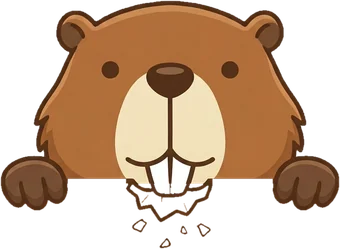
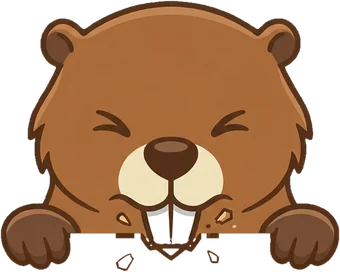
One bite, once, from a better-drawn beaver
The token chart beaver is redrawn after the greeting beaver: short
muzzle and front teeth on the upper lip. It pops up with its mouth
open, dips its head and bites the chart's edge once, and the effect
plays only the first time the chart comes into view. The walking and
floating beavers no longer move.

diff --git a/web/styles.css b/web/styles.css
@@ -221,15 +221,13 @@ code { font: 0.92em var(--mono); color: var(--ink-2); }
 .art-hello { position: absolute; top: -48px; right: -40px; width: 360px; opacity: 0.15; pointer-events: none; -webkit-mask-image: linear-gradient(#000 50%, transparent 82%); mask-image: linear-gradient(#000 50%, transparent 82%); }
 .h2-row { display: flex; align-items: flex-end; justify-content: space-between; gap: 16px; }
 .h2-row h2 { margin-bottom: 16px; }
-.art-walk { width: 130px; margin: -36px 4px -4px 0; transform-origin: 50% 100%; animation: waddle 1.4s ease-in-out infinite; }
-@keyframes waddle { 25% { transform: rotate(-3deg) translateY(-2px); } 75% { transform: rotate(3deg) translateY(-2px); } }
-@media (prefers-reduced-motion: reduce) { .art-walk { animation: none; } }
+.art-walk { width: 130px; margin: -36px 4px -4px 0; }
 /* the beaver bites the top edge of the token chart; about.js plays it when the chart scrolls in.
-   Two frames with the same framing (mouth open, biting); the board edge sits 52.7% down them. */
+   Two frames with the same framing (mouth open, then head dipped and biting); the board edge sits 68.7% down them. */
 .tokens { --cw: 170px; }
 .tokens .stat { padding-right: calc(var(--cw) + 24px); }
 .chart { position: relative; }
-.chomp { position: absolute; z-index: 3; right: 18px; top: calc(var(--cw) * -0.527 - 1px); width: var(--cw); pointer-events: none; }
+.chomp { position: absolute; z-index: 3; right: 18px; top: calc(var(--cw) * -0.687 - 1px); width: var(--cw); pointer-events: none; }
 .chomp img { display: block; width: 100%; height: auto; }
 .chomp .chomp-bite { position: absolute; inset: 0; }
 .crumbs { position: absolute; z-index: 2; top: 2px; right: calc(18px + var(--cw) * 0.5); width: 0; height: 0; }
@@ -239,20 +237,15 @@ code { font: 0.92em var(--mono); color: var(--ink-2); }
 .chart.armed .chomp-bite { opacity: 0; }
 .chart.armed .is-ours .bar { width: 100%; }
 .chart.chomped .chomp { opacity: 1; transform: none; transition: opacity 0.2s, transform 0.35s cubic-bezier(0.3, 1.5, 0.5, 1); }
-/* three bites: open, bite, open, bite, open, bite, and it keeps the last bite */
-.chart.chomped .chomp-bite { animation: bite-frame 0.34s 0.45s 3 step-end forwards; }
-.chart.chomped .chomp img:first-child { animation: bite-bob 0.34s 0.45s 3; }
+/* one bite: it pops up with its mouth open, then dips and bites, and keeps biting */
+.chart.chomped .chomp-bite { opacity: 1; transition: opacity 0.04s 0.6s; }
 .chart.chomped { animation: shake 0.3s 0.62s; }
 .chart.chomped .crumbs i { animation: crumb 1s 0.62s cubic-bezier(0.2, 0.6, 0.4, 1) forwards; }
-.chart.chomped .is-ours .bar { width: var(--w); transition-delay: 0.7s; }
-@keyframes bite-frame { 0% { opacity: 0; } 50% { opacity: 1; } 100% { opacity: 1; } }
-@keyframes bite-bob { 50% { transform: translateY(3px); } }
+.chart.chomped .is-ours .bar { width: var(--w); transition-delay: 0.68s; }
 @keyframes shake { 25% { transform: translate(-2px, 1px); } 50% { transform: translate(2px, -1px); } 75% { transform: translate(-1px, 0); } }
 @keyframes crumb { 0% { opacity: 1; transform: translate(0, 0) rotate(0) scale(var(--s)); } 100% { opacity: 0; transform: translate(var(--dx), var(--dy)) rotate(var(--r)) scale(var(--s)); } }
 /* drifting in the dam: the water is the page navy, faded out at the edges */
-.art-float { width: min(100%, 500px); margin: 8px auto 0; -webkit-mask-image: radial-gradient(ellipse 50% 50% at 50% 50%, #000 66%, transparent 100%); mask-image: radial-gradient(ellipse 50% 50% at 50% 50%, #000 66%, transparent 100%); animation: drift 7s ease-in-out infinite; }
-@keyframes drift { 50% { transform: translate(10px, -5px) rotate(-1.5deg); } }
-@media (prefers-reduced-motion: reduce) { .art-float { animation: none; } }
+.art-float { width: min(100%, 500px); margin: 8px auto 0; -webkit-mask-image: radial-gradient(ellipse 50% 50% at 50% 50%, #000 66%, transparent 100%); mask-image: radial-gradient(ellipse 50% 50% at 50% 50%, #000 66%, transparent 100%); }
 .about { max-width: 760px; margin: 0 auto; padding: 48px 24px 80px; display: flex; flex-direction: column; gap: 56px; }
 .about h1 { margin: 0 0 14px; font: 600 44px/1.1 var(--sans); letter-spacing: -0.03em; }
 .about h2 { margin: 0 0 16px; font: 600 24px/1.25 var(--sans); letter-spacing: -0.02em; }

diff --git a/web/js/about.js b/web/js/about.js
@@ -1,7 +1,7 @@
-// About page: each time the token chart scrolls well into view the beaver pops up over its top
-// edge and takes three bites: the card shakes, crumbs fly and the mdbeaver
-// bars get gnawed down from the page-image length to their real length. Scrolling away and back
-// plays it again. Without JS, or with reduced motion, the chart simply shows its final state.
+// About page: the first time the token chart scrolls well into view the beaver pops up over its top
+// edge and takes a bite: the card shakes, crumbs fly and the mdbeaver bars get gnawed down from
+// the page-image length to their real length. It plays once. Without JS, or with reduced motion,
+// the chart simply shows its final state.
 const chart = document.querySelector(".chart");
 if (chart && !matchMedia("(prefers-reduced-motion: reduce)").matches) {
   chart.classList.add("armed");
@@ -16,17 +16,16 @@ if (chart && !matchMedia("(prefers-reduced-motion: reduce)").matches) {
     c.style.setProperty("--s", (0.6 + Math.random() * 0.8).toFixed(2));
     crumbs.append(c);
   }
-  // Plays once the chart's top passes 65% of the window height; resets once it is back below 70%
-  // or scrolled off the top. The gap between the two keeps it from flickering at the edge.
-  let raf = 0;
+  // Plays once, the first time the chart's top passes 65% of the window height.
   const check = () => {
-    raf = 0;
     const r = chart.getBoundingClientRect();
-    const on = chart.classList.contains("chomped");
-    if (!on && r.top < innerHeight * 0.65 && r.bottom > 80) chart.classList.add("chomped");
-    else if (on && (r.top > innerHeight * 0.7 || r.bottom < 0)) chart.classList.remove("chomped");
+    if (r.top < innerHeight * 0.65 && r.bottom > 80) {
+      chart.classList.add("chomped");
+      removeEventListener("scroll", onScroll);
+    }
   };
-  addEventListener("scroll", () => { raf ||= requestAnimationFrame(check); }, { passive: true });
-  addEventListener("resize", check);
+  let raf = 0;
+  const onScroll = () => { raf ||= requestAnimationFrame(() => { raf = 0; check(); }); };
+  addEventListener("scroll", onScroll, { passive: true });
   check();
 }

diff --git a/web/about.html b/web/about.html
@@ -48,7 +48,7 @@
       <p class="stat"><span class="stat-big">−46%</span><span class="stat-text">tokens compared with handing the AI your pages as images, at 94% vs 98% correct answers.</span></p>
 
       <figure class="chart" aria-labelledby="chart-title">
-        <span class="chomp" aria-hidden="true"><img class="art" src="/about-chomp-open.webp" alt="" width="340" height="249"><img class="art chomp-bite" src="/about-chomp-bite.webp" alt="" width="340" height="249"></span>
+        <span class="chomp" aria-hidden="true"><img class="art" src="/about-chomp-open.webp" alt="" width="340" height="272"><img class="art chomp-bite" src="/about-chomp-bite.webp" alt="" width="340" height="272"></span>
         <span class="crumbs" aria-hidden="true"></span>
         <figcaption id="chart-title" class="chart-title">Tokens the AI reads per question <span>(fewer is better)</span></figcaption>
         <div class="bars" role="list">
